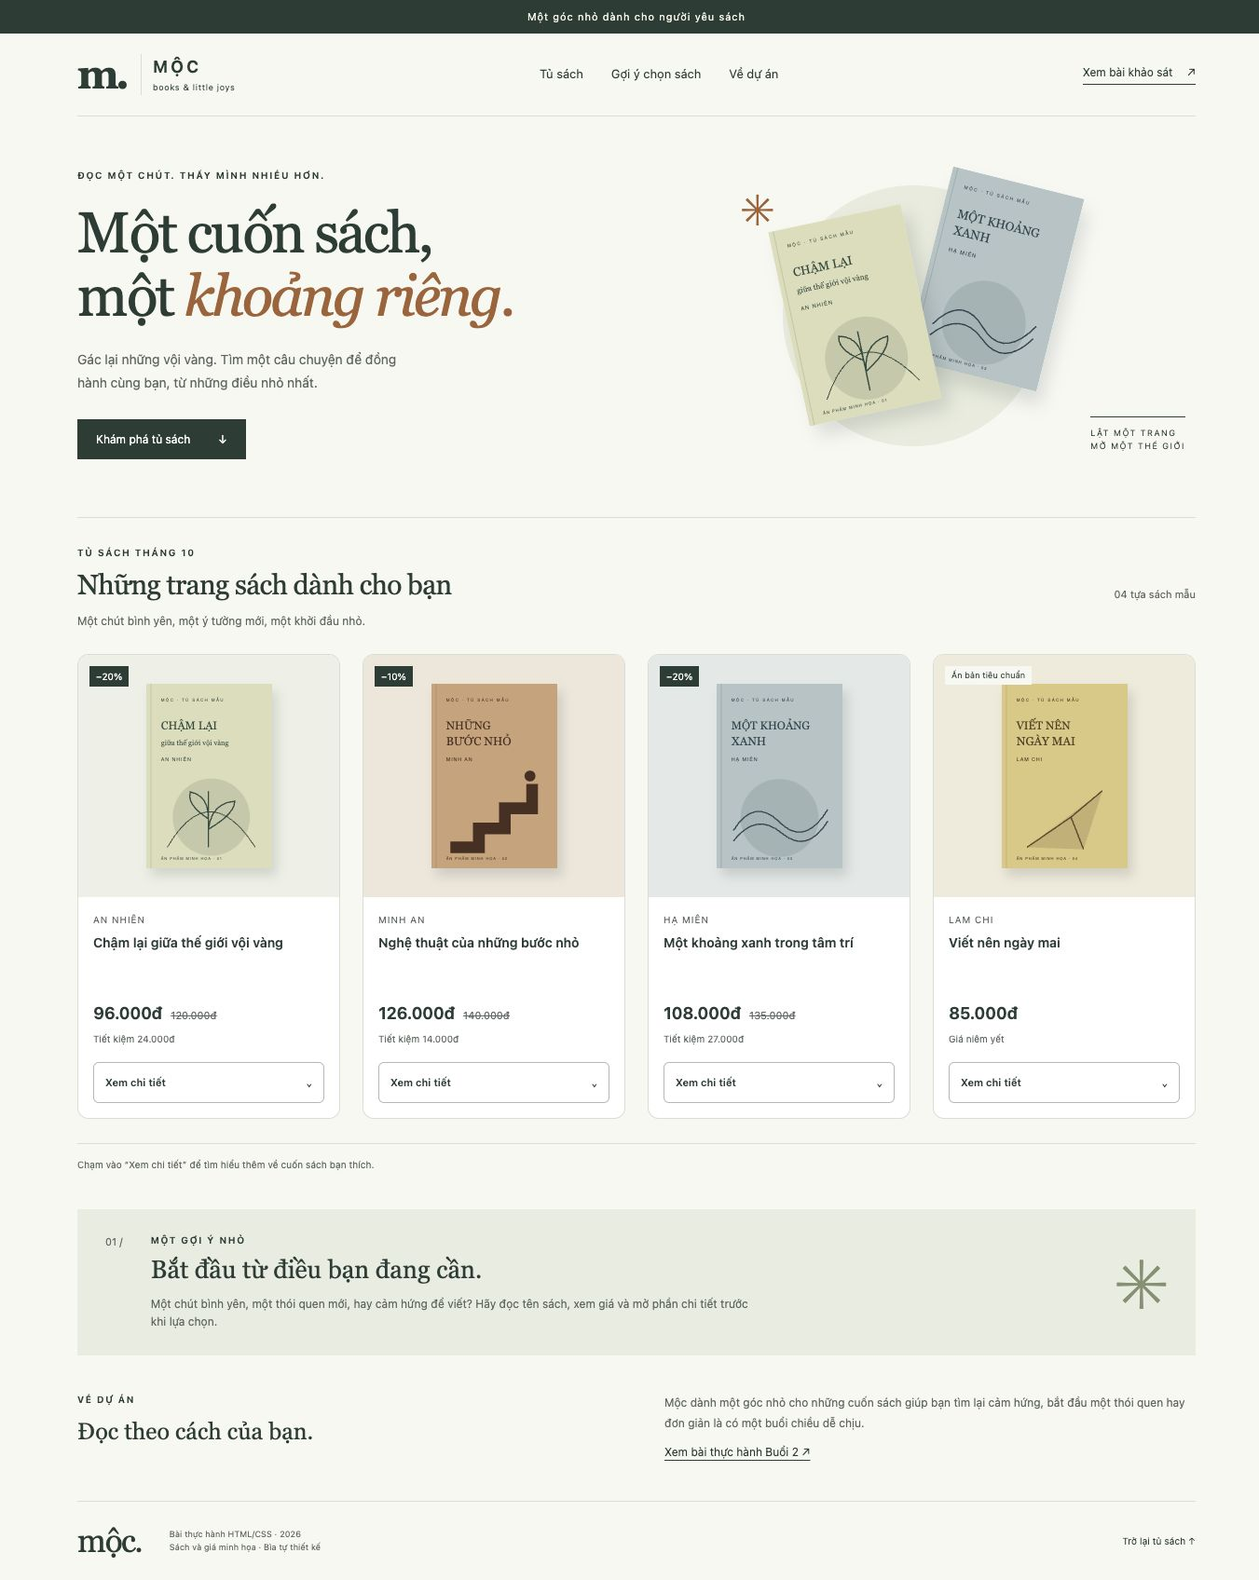
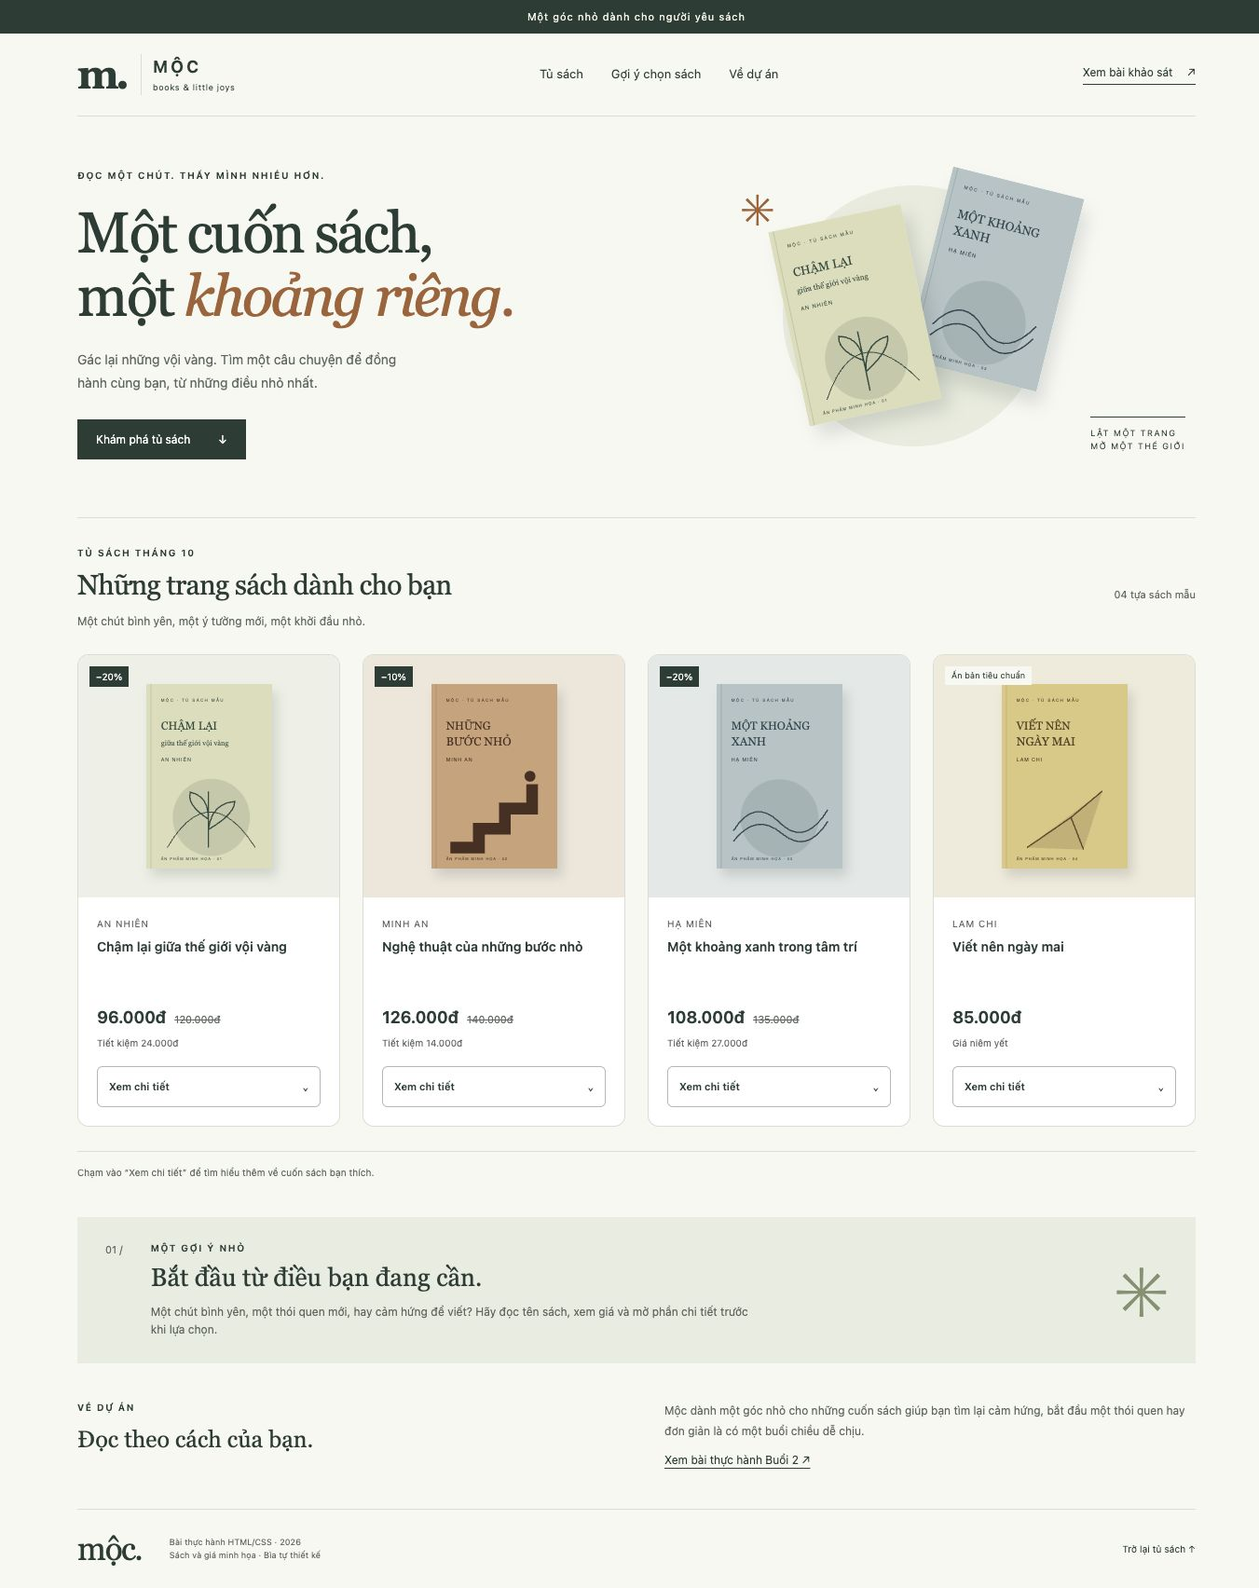
Refine book card padding and record comparison

diff --git a/docs/buoi-2.html b/docs/buoi-2.html
@@ -1,23 +1,23 @@
 <!doctype html>
-<html lang="vi"><head><meta charset="utf-8"><meta name="viewport" content="width=device-width,initial-scale=1"><title>Mộc — Bài thực hành Buổi 2</title><link rel="stylesheet" href="report.css"><style>td{width:auto}details{margin:18px 0}summary{cursor:pointer;font-weight:600}.notice{padding:16px;background:#eef1e7;border-left:4px solid #346c57}.shot{max-height:520px;object-fit:contain;object-position:top;background:#eee}li{margin:8px 0}</style></head><body><main>
+<html lang="vi"><head><meta charset="utf-8"><meta name="viewport" content="width=device-width,initial-scale=1"><title>Mộc — Bài thực hành Buổi 2</title><link rel="stylesheet" href="report.css"><style>td{width:auto}details{margin:18px 0}summary{cursor:pointer;font-weight:600}.notice{padding:20px;background:#eef1e7;border-left:4px solid #346c57}.shot{max-height:520px;object-fit:contain;object-position:top;background:#eee}li{margin:8px 0}</style></head><body><main>
 <a class="back" href="../index.html">← Về tủ sách Mộc</a><p class="eyebrow">PHÁT TRIỂN ỨNG DỤNG WEB/TMĐT · BUỔI 2 · 03/11/2026</p>
 <h1>Hoàn thiện thẻ sách bằng HTML5 và CSS3</h1>
 <p class="lead">Tiếp tục website Mộc từ Buổi 1, tập trung vào danh sách bốn cuốn sách. Giữ nguyên nội dung, ảnh bìa và thao tác mở chi tiết.</p>
 <p>Website tham khảo: <a href="https://www.fahasa.com/">Fahasa</a>. Bản gốc: commit <code>5a2ac17</code> của <a href="https://github.com/thanhdat09cpr/ecommerce-ui-improvement-moc">repository Buổi 1</a>. <a href="bao-cao.html">Báo cáo khảo sát cũ</a> và <a href="kiem-tra.html">kiểm tra Buổi 1</a> vẫn được giữ lại.</p>
-<p class="notice">Mã và báo cáo này được hoàn thiện với sự hỗ trợ của Codex. Mục “tự sửa độc lập” của sinh viên chưa được xác nhận; hướng dẫn thực hành ở cuối trang giúp hoàn thành phần đó. Các câu trả lời bên dưới là tài liệu giải thích theo mã thực tế để người học đọc, thử và diễn đạt lại.</p>
+<p class="notice">Mã và báo cáo này được hoàn thiện với sự hỗ trợ của Codex. Mục “tự sửa độc lập” của sinh viên chưa được xác nhận; mục 6 ghi lại thay đổi bổ sung do Codex thực hiện theo yêu cầu. Các câu trả lời bên dưới là tài liệu giải thích theo mã thực tế để người học đọc, thử và diễn đạt lại.</p>
 <h2>1. Rà soát và chọn phần cải thiện</h2>
 <p>Bản cũ đã có <code>header, nav, main, section, article, footer</code>, tiêu đề h1–h3, ảnh có alt, CSS ngoài, Flexbox, Grid và focus-visible. Đây là phần đã làm đúng, được giữ lại. Không thêm framework, JavaScript, trang bán hàng mới hoặc chức năng giỏ hàng.</p>
 <div class="table-scroll"><table><thead><tr><th>Vấn đề quan sát</th><th>Nguyên nhân / hướng cải thiện</th><th>Kết quả mong muốn</th></tr></thead><tbody>
 <tr><td>Ở 768 px vẫn có bốn cột; trước sửa đo được mỗi thẻ rộng 168 px.</td><td>Quy tắc hai cột chỉ áp dụng dưới 700 px. Cho hai cột từ 1000 px trở xuống; một cột từ 420 px trở xuống.</td><td>Thêm chỗ cho tên, giá và thao tác trên màn hình vừa/nhỏ.</td></tr>
-<tr><td>Thẻ chưa có khung riêng; vùng nội dung có padding ngang bằng 0.</td><td>Thêm border 1 px, border-radius 12 px, nền trắng; đặt padding 16 px cho .product-body.</td><td>Nhìn rõ phạm vi từng cuốn sách, nội dung cách mép khung.</td></tr>
+<tr><td>Thẻ chưa có khung riêng; vùng nội dung có padding ngang bằng 0.</td><td>Thêm border 1 px, border-radius 12 px, nền trắng; đặt padding 20 px cho .product-body.</td><td>Nhìn rõ phạm vi từng cuốn sách, nội dung cách mép khung.</td></tr>
 <tr><td>Nút chi tiết đổi nền tức thời dù ảnh bìa đã có transition.</td><td>Thêm transition 0,2 giây cho màu nền, chữ và viền của summary.</td><td>Phản hồi hover nhẹ; giữ focus-visible và tắt chuyển động khi người dùng yêu cầu.</td></tr>
 </tbody></table></div>
 <p>Thứ tự thực hiện: đọc cấu trúc cũ → kiểm tra HTML/CSS → sửa Box Model → chỉnh số cột → kiểm tra thao tác và các kích thước. Bổ sung <code>aria-labelledby</code> cho từng article, trỏ đến id của tên sách; không đổi nội dung sản phẩm.</p>
 <h2>2. Những kỹ thuật đã thực hành</h2>
 <ul><li><strong>HTML ngữ nghĩa:</strong> section là khu vực tủ sách, article là từng cuốn, h2 là tiêu đề khu vực, h3 là tên sách. Giữ details/summary vì thao tác là mở nội dung tại chỗ; không đổi thành liên kết giả đến trang chưa tồn tại.</li>
-<li><strong>CSS ngoài:</strong> index.html liên kết css/style.css?v=3. Phần ?v=3 giúp trình duyệt tải bản CSS mới. Font, màu chữ và nền kế thừa bản Mộc; không dùng Bootstrap/Tailwind.</li>
+<li><strong>CSS ngoài:</strong> index.html liên kết css/style.css?v=4. Phần ?v=4 giúp trình duyệt tải bản CSS mới. Font, màu chữ và nền kế thừa bản Mộc; không dùng Bootstrap/Tailwind.</li>
 <li><strong>Selector:</strong> <code>summary</code> chọn theo phần tử; <code>.product-body</code> chọn theo class; <code>.product .cover-stage</code> chọn phần tử con cháu trong thẻ sách; <code>summary:hover</code> và <code>:focus-visible</code> chọn trạng thái.</li>
-<li><strong>Box Model:</strong> product có border 1 px và bo góc 12 px; product-body có padding 16 px; details có margin-top 12 px. Quy tắc <code>* { box-sizing: border-box; }</code> tính cả padding và border trong kích thước đã đặt, không tính margin.</li>
+<li><strong>Box Model:</strong> product có border 1 px và bo góc 12 px; product-body có padding 20 px; details có margin-top 12 px. Quy tắc <code>* { box-sizing: border-box; }</code> tính cả padding và border trong kích thước đã đặt, không tính margin.</li>
 <li><strong>Flexbox:</strong> summary dùng display:flex, justify-content:space-between, align-items:center và gap:8px để căn nhãn và mũi tên. Pricing dùng flex-wrap để giá gốc/giá bán có thể xuống dòng.</li>
 <li><strong>Grid:</strong> product-grid dùng repeat(4,minmax(0,1fr)) ở màn hình lớn, hai cột ở màn hình vừa và một cột ở màn hình nhỏ. gap tạo khoảng cách giữa các thẻ. Giữ object-fit:contain để xem toàn bộ bìa; cover sẽ lấp đầy khung nhưng có thể cắt ảnh.</li>
 <li><strong>Hover/focus:</strong> nền nút chuyển sang xanh đậm với chữ trắng; focus-visible tạo outline 3 px khi dùng bàn phím. Viền focus không chiếm thêm diện tích bố cục.</li></ul>
@@ -27,10 +27,10 @@
   border-radius: 12px;
   background: #fff;
 }
-.product-body { padding: 16px; }
+.product-body { padding: 20px; }
 .product .cover-stage { border-radius: 11px 11px 0 0; }</pre>
 <h2>3. Ảnh trước và sau</h2><p>Hai ảnh dưới chụp cùng website ở khung 768 × 1000 px, xuất ảnh toàn trang. Bấm ảnh để xem kích thước đầy đủ.</p>
-<div class="evidence-grid"><figure><a href="evidence/buoi-2/truoc-768.png"><img class="shot" src="evidence/buoi-2/truoc-768.png" alt="Bản Buổi 1: bốn thẻ sách hẹp ở màn hình 768 px"></a><figcaption>Trước: bốn cột, thẻ chưa có khung và đệm ngang.</figcaption></figure><figure><a href="evidence/buoi-2/sau-768.png"><img class="shot" src="evidence/buoi-2/sau-768.png" alt="Bản Buổi 2: hai cột, thẻ sách có khung và khoảng đệm"></a><figcaption>Sau: hai cột, khung bo góc và padding 16 px.</figcaption></figure></div>
+<div class="evidence-grid"><figure><a href="evidence/buoi-2/truoc-768.png"><img class="shot" src="evidence/buoi-2/truoc-768.png" alt="Bản Buổi 1: bốn thẻ sách hẹp ở màn hình 768 px"></a><figcaption>Trước: bốn cột, thẻ chưa có khung và đệm ngang.</figcaption></figure><figure><a href="evidence/buoi-2/sau-768.png"><img class="shot" src="evidence/buoi-2/sau-768.png" alt="Bản Buổi 2: hai cột, thẻ sách có khung và khoảng đệm"></a><figcaption>Sau: hai cột, khung bo góc và padding 20 px.</figcaption></figure></div>
 <p>Ảnh hoàn thiện: <a href="evidence/buoi-2/sau-1366.png">1366 px</a> · <a href="evidence/buoi-2/sau-390.png">390 px</a> · <a href="evidence/buoi-2/sau-320.png">320 px</a> · <a href="evidence/buoi-2/focus.png">Focus bàn phím</a> · <a href="evidence/buoi-2/chi-tiet.png">Mở chi tiết bằng Enter</a>.</p>
 <h2>4. Báo cáo kiểm thử</h2>
 <div class="table-scroll"><table><thead><tr><th>Nội dung</th><th>Kết quả</th><th>Cách kiểm tra / ghi chú</th></tr></thead><tbody>
@@ -45,16 +45,20 @@
 </tbody></table></div><p><a href="evidence/buoi-2/viewport-checks.json">Số đo kiểm tra bố cục</a>.</p>
 <h2>5. Bảy câu hỏi kiến thức</h2>
 <h3>Câu 1. Những phần tử HTML5 được dùng và lý do?</h3><p>Trong tủ sách, section gom một chủ đề có tiêu đề h2. Mỗi article chứa một cuốn sách và được gắn tên qua aria-labelledby. Tên sách là h3 dưới h2 của tủ sách. img hiển thị bìa, p chứa tác giả, strong nhấn giá bán, del thể hiện giá gốc. details/summary mở và đóng mô tả mà không cần JavaScript. Toàn trang còn có header, nav, main và footer. Nội dung mô tả dạng cặp tên–giá trị dùng dl/dt/dd; nếu bổ sung danh sách không thứ tự thì dùng ul/li.</p>
-<h3>Câu 2. Margin khác padding thế nào?</h3><p>Padding là khoảng đệm phía trong viền; .product-body có padding:16px nên chữ và nút không sát mép. Margin là khoảng cách phía ngoài phần tử; .product details có margin-top:12px để cách vùng giá. Khoảng cách giữa các thẻ do gap của Grid tạo ra, không phải padding.</p>
+<h3>Câu 2. Margin khác padding thế nào?</h3><p>Padding là khoảng đệm phía trong viền; .product-body có padding:20px nên chữ và nút không sát mép. Margin là khoảng cách phía ngoài phần tử; .product details có margin-top:12px để cách vùng giá. Khoảng cách giữa các thẻ do gap của Grid tạo ra, không phải padding.</p>
 <h3>Câu 3. Flexbox dùng ở đâu?</h3><p>Summary là phần tử cha dùng Flexbox để xếp nhãn và mũi tên trên một hàng. justify-content:space-between đẩy hai phần về hai đầu trục chính; align-items:center căn giữa theo trục còn lại. gap:8px giữ khoảng cách tối thiểu giữa chúng. Nếu đổi justify-content thành flex-start, mũi tên nằm sát nhóm chữ hơn thay vì về mép phải. Flexbox còn có ở hàng giá, header và menu.</p>
 <h3>Câu 4. Grid khác Flexbox như thế nào?</h3><p>Flexbox phù hợp bố trí theo một trục chính, như nhãn–mũi tên hoặc hàng giá. Grid tổ chức hàng và cột rõ ràng. Danh sách có bốn sách nên Grid giúp chia các cột bằng nhau và đổi số cột theo màn hình. repeat lặp định nghĩa cột; minmax(0,1fr) cho cột co lại mà không bị nội dung dài ép rộng.</p>
 <h3>Câu 5. Xóa display:grid thì sao?</h3><p>Div product-grid trở về bố cục block thông thường; các article xếp dọc theo luồng thay vì thành bốn cột. grid-template-columns không còn tác dụng tạo cột; gap cũng không tạo khoảng cách Grid như trước. Nội dung sách vẫn còn, chỉ cách sắp xếp thay đổi.</p>
 <h3>Câu 6. Vì sao cần alt?</h3><p>Alt mô tả bìa khi ảnh không tải được và cung cấp nội dung cho trình đọc màn hình, chẳng hạn “Bìa minh họa sách Chậm lại giữa thế giới vội vàng”. Ảnh trang trí ở hero dùng alt rỗng và nằm trong vùng aria-hidden vì không bổ sung nội dung cần đọc. Không dùng alt rỗng cho ảnh sản phẩm có ý nghĩa.</p>
 <h3>Câu 7. Một đề xuất của AI được kiểm tra/điều chỉnh?</h3><p>AI đề xuất đưa danh sách về hai cột ở 768 px. Sau khi chạy, phần tên sách vẫn giữ min-height:88px từ bố cục cũ nên xuất hiện khoảng trắng thừa. Trong lượt làm này, Codex kiểm tra ảnh và giảm xuống 48px. Đây là ví dụ kiểm tra đề xuất của AI; sinh viên cần tự chạy và giải thích lại, không nhận thao tác này là phần mình tự sửa độc lập.</p>
-<h2>6. Thực hành trực tiếp trước khi nộp</h2>
-<p class="notice">Phần này cần sinh viên làm thật. Nếu chưa làm, giữ trạng thái “chưa xác nhận”, không điền kết quả giả.</p>
-<ol><li>Mở trang ở 390 px. Chọn vùng nội dung của một thẻ sách và xem padding hiện tại là 16 px.</li><li>Trong css/style.css, đổi <code>.product-body { padding:16px; }</code> thành <code>padding:20px</code>. Dự đoán: nội dung cách viền thêm 4 px mỗi phía, chiều rộng còn lại cho chữ giảm 8 px.</li><li>Lưu file, tải lại trang, kiểm tra tên sách/nút có xuống dòng không và chụp ảnh trước–sau. Nếu khoảng đệm quá lớn, tự chọn lại giá trị và giải thích.</li><li>Ghi ngắn: vấn đề mình quan sát, dòng CSS tự đổi, kết quả thực tế và lý do giữ/đổi giá trị. Cập nhật dòng “tự sửa độc lập” sau khi hoàn tất và commit thay đổi.</li></ol>
-<p>Ôn thêm các yêu cầu sửa trực tiếp: đổi màu giá ở <code>.pricing strong</code>; đổi số cột ở <code>.product-grid</code> (chú ý media query đang có hiệu lực); đổi khoảng cách menu ở <code>.site-header nav</code>; sửa alt ở img của sách. Thử hai và ba cột bằng grid-template-columns; thử flex-start và space-between ở summary, rồi so sánh trước khi chọn bản cuối.</p>
+<h2>6. Điều chỉnh khoảng đệm và kiểm tra lại</h2>
+<p>Theo yêu cầu làm tiếp, Codex đã đổi <code>.product-body { padding:16px; }</code> thành <code>padding:20px</code>. Mục đích là tăng khoảng thở giữa chữ, nút và mép khung. Đây là một cải thiện trình bày, không phải lỗi chức năng.</p>
+<p><strong>Dự đoán:</strong> với cùng chiều rộng thẻ, nội dung lùi vào thêm 4 px ở mỗi bên; chiều rộng dành cho chữ giảm tổng cộng 8 px. Padding phía trên và dưới cũng tăng 4 px. Margin giữa các phần tử và gap giữa các thẻ không đổi.</p>
+<p><strong>Kết quả kiểm tra:</strong> computed style xác nhận padding 20 px ở 1366, 768, 390 và 320 px; không tràn ngang cấp trang, tất cả ảnh tải thành công. Enter vẫn mở chi tiết. Giữ 20 px vì khoảng đệm rõ hơn mà nội dung và thao tác vẫn sử dụng được trên các khung đã kiểm tra.</p>
+<div class="evidence-grid"><figure><a href="evidence/buoi-2/padding-truoc.png"><img class="shot" src="evidence/buoi-2/padding-truoc.png" alt="Trước chỉnh khoảng đệm: padding 16 px"></a><figcaption>Trước: padding 16 px.</figcaption></figure><figure><a href="evidence/buoi-2/padding-sau.png"><img class="shot" src="evidence/buoi-2/padding-sau.png" alt="Sau chỉnh khoảng đệm: padding 20 px"></a><figcaption>Sau: padding 20 px, ảnh chụp ở viewport 390 px.</figcaption></figure></div>
+<p><a href="evidence/buoi-2/padding-checks.json">Kết quả kiểm tra sau thay đổi</a>. Các ảnh hoàn thiện trong mục 3 cũng đã được cập nhật; ảnh focus và mở chi tiết ở mục đó lưu kiểm tra của lượt trước.</p>
+<p class="notice">Thay đổi này được thực hiện với AI hỗ trợ. Yêu cầu sinh viên tự sửa độc lập chưa được xác nhận. Để thực hành, có thể tự đổi padding về 16 px rồi so sánh với 20 px, giải thích kết quả và ghi lại thao tác thực tế của mình.</p>
+<p>Ôn sửa trực tiếp: đổi màu giá ở <code>.pricing strong</code>, số cột ở <code>.product-grid</code> trong media query đang có hiệu lực, khoảng cách menu ở <code>.site-header nav</code>, hoặc alt của ảnh sách.</p>
 <h2>7. Sử dụng AI và tệp nộp</h2><p>Codex hỗ trợ đọc đề, dò repository, rà soát, sửa HTML/CSS, chụp ảnh và viết báo cáo. Các yêu cầu thực tế và giới hạn xác nhận được ghi tại <a href="https://github.com/thanhdat09cpr/ecommerce-ui-improvement-moc/blob/main/AI_USAGE.md">AI_USAGE.md</a>. Không có khảo sát Fahasa mới trong Buổi 2; dùng lại bài Buổi 1.</p>
 <ul><li>HTML: index.html; CSS: css/style.css; giữ thư mục images.</li><li>Ảnh trước–sau và ảnh hoàn thiện: docs/evidence/buoi-2/.</li><li>Báo cáo kiểm thử, giải thích và bảy câu hỏi: trang này.</li><li>README.md và AI_USAGE.md: hướng dẫn chạy, lịch sử và sử dụng AI.</li><li>Phần tự sửa độc lập: sinh viên bổ sung sau khi thực hành.</li></ul>
 <p><a href="https://drive.google.com/file/d/1MPWiBS4l3EOtTHo-Hd35-lQbxV9E9XE2/view">Đề bài gốc</a>: mục 15 ở trang 23 dẫn “bảy câu hỏi ở phần 5”; báo cáo này dùng đúng bảy câu tại mục 12, trang 21.</p><p class="end">Mộc · Buổi 2 · HTML/CSS thuần · Không có giỏ hàng hoặc thanh toán.</p></main></body></html>

diff --git a/css/style.css b/css/style.css
@@ -51,7 +51,7 @@ a:hover{text-decoration:underline;text-underline-offset:5px}
 .discount,.edition{position:absolute;top:12px;left:12px;font-size:10px;padding:3px 7px;z-index:1;background:var(--paper);color:var(--ink)}
 .discount{background:var(--ink);color:white}
 .edition{font-size:9px}
-.product-body{padding:16px}
+.product-body{padding:20px}
 .author{font-size:10px;color:var(--muted);letter-spacing:.09em;text-transform:uppercase}
 .product h3{font-size:14px;font-weight:600;line-height:1.55;margin-top:6px;min-height:66px;overflow-wrap:anywhere}
 .pricing{display:flex;flex-wrap:wrap;align-items:baseline;column-gap:9px;row-gap:1px;min-height:61px;padding-top:8px}

diff --git a/index.html b/index.html
@@ -6,7 +6,7 @@
   <meta name="description" content="Mộc - bản mẫu cải tiến thẻ sản phẩm sách bằng HTML và CSS, tham khảo khảo sát Fahasa.">
   <title>Mộc — Một cuốn sách, một khoảng riêng</title>
   <link rel="icon" href="images/cham-lai.svg" type="image/svg+xml">
-  <link rel="stylesheet" href="css/style.css?v=3">
+  <link rel="stylesheet" href="css/style.css?v=4">
 </head>
 <body>
   <a class="skip-link" href="#tu-sach">Bỏ qua điều hướng, đến tủ sách</a>

diff --git a/README.md b/README.md
@@ -45,7 +45,7 @@ Codex hỗ trợ khảo sát, viết HTML/CSS, làm ảnh bìa, kiểm tra giao 
 
 Tiếp tục bản Buổi 1 tại commit `5a2ac17`, tập trung danh sách bốn cuốn sách; giữ nguyên nội dung và ảnh. Không thêm framework hoặc JavaScript.
 
-- Thẻ sách có border, bo góc và padding 16 px cho nội dung.
+- Thẻ sách có border, bo góc và padding 20 px cho nội dung.
 - Bố cục: 4 cột ở màn hình lớn, 2 cột từ 1000 px trở xuống, 1 cột từ 420 px trở xuống.
 - Nút chi tiết có chuyển màu 0,2 giây; giữ focus-visible và hỗ trợ giảm chuyển động.
 - Article được đặt tên qua aria-labelledby trỏ đến h3.
@@ -57,3 +57,8 @@ Tiếp tục bản Buổi 1 tại commit `5a2ac17`, tập trung danh sách bốn
 Chạy như Buổi 1: mở index.html hoặc chạy `python3 -m http.server 8000` tại thư mục dự án rồi vào http://localhost:8000. Báo cáo ở docs/buoi-2.html.
 
 **Phần còn cần sinh viên thực hiện:** tự sửa một thay đổi nhỏ, chụp ảnh và giải thích theo hướng dẫn cuối báo cáo. Thao tác Codex đã làm không được ghi thành thao tác tự làm độc lập của sinh viên. Các câu trả lời kiến thức là bản giải thích để học và thực hành.
+
+
+### Điều chỉnh bổ sung
+
+Theo yêu cầu làm tiếp, Codex đã đổi padding nội dung thẻ từ 16 lên 20 px, chụp ảnh trước–sau và kiểm tra lại bốn kích thước màn hình. Không tràn ngang, ảnh tải đủ, Enter mở được chi tiết. Xem mục 6 của báo cáo. Đây là thay đổi có AI hỗ trợ; không ghi nhận là thao tác độc lập của sinh viên.
